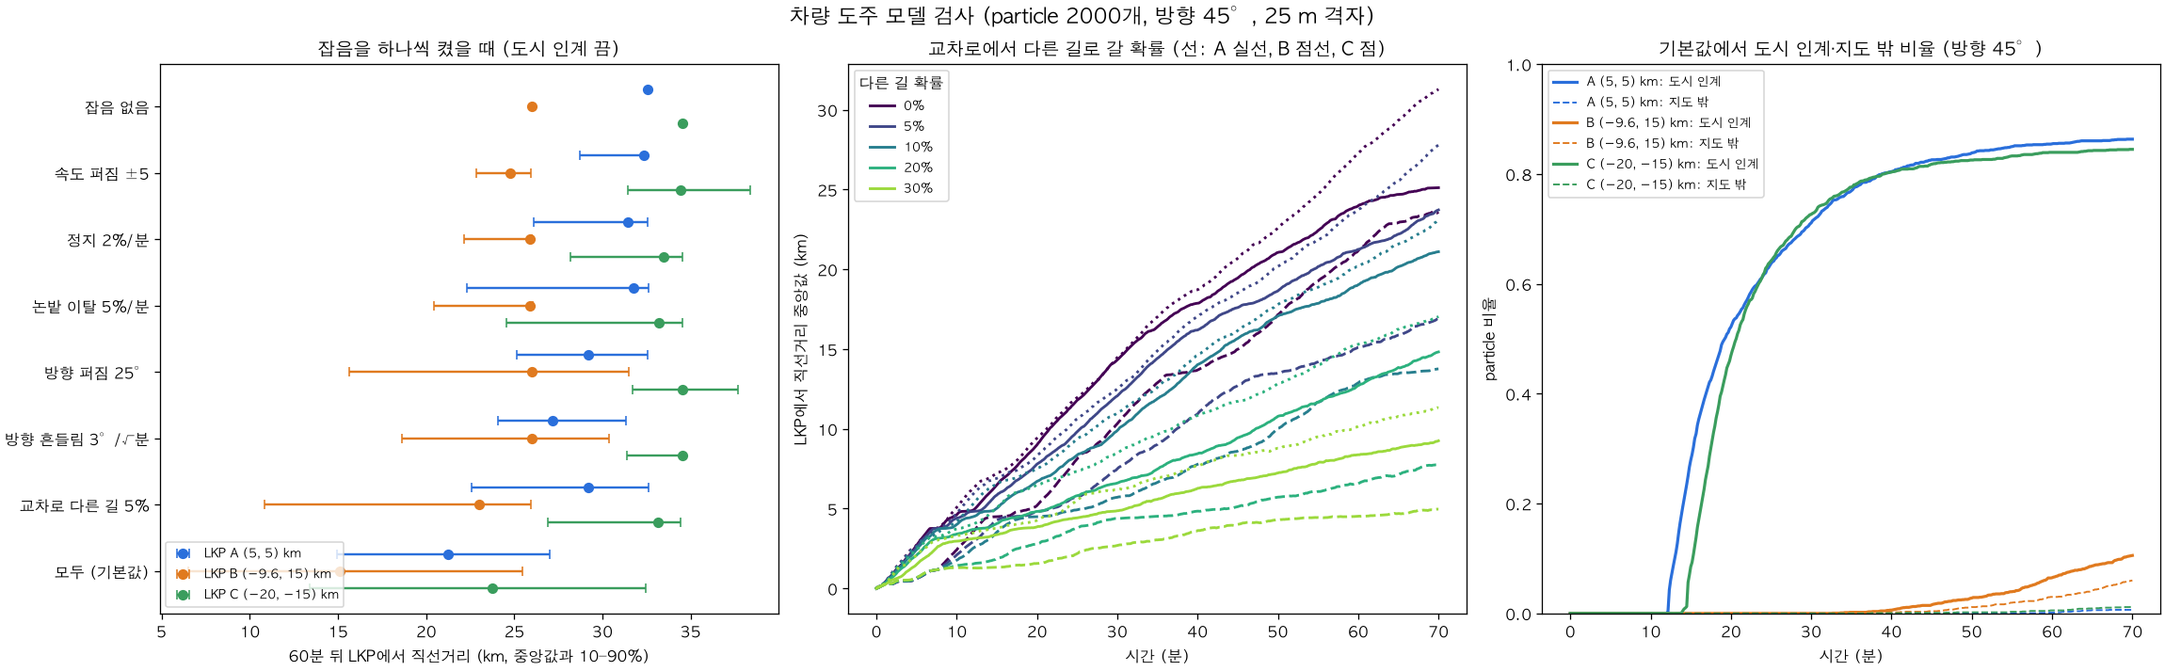
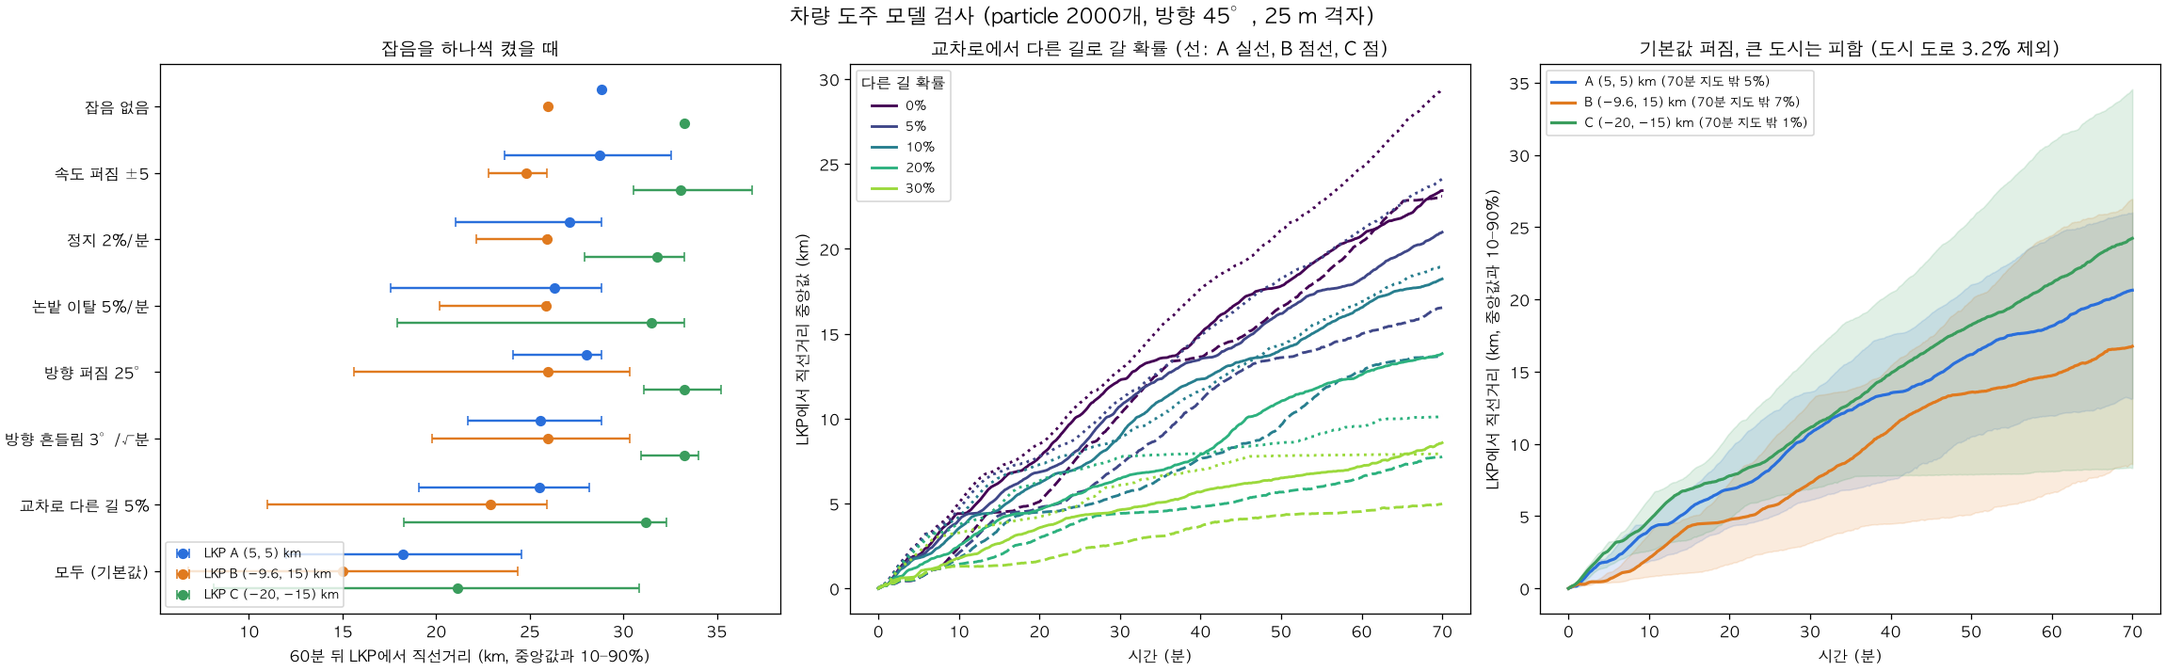
Vehicle evaders avoid large cities: city roads removed from the graph, hand-off state dropped; checks and handoff updated

diff --git a/rl_search/vehicle.py b/rl_search/vehicle.py
@@ -5,6 +5,10 @@ Agreed with the user (2026-11-06, docs/real_map_todo.md):
 - On roads the particle drives along the road graph (fast / slow tier). It may leave the road with the
   car into open land (fields, grass, villages), where it drives slowly on the 25 m grid and is blocked
   by forest, water, steep ground and the city zones. Near a road it may return to it.
+- Large cities are avoided (user decision 2026-11-06, option b): roads that pass through a city zone are
+  removed from the graph, so routes go around the cities where a bypass exists, and off-road driving
+  cannot enter them. (The first version handed particles off when they reached a city; with a 45 deg
+  heading 84 % were gone after 60 min because the fastest routes ran through Chungju and Jecheon.)
 - All rates are per minute and converted to the step length: p_step = 1 - (1 - p_min)^(dt/60).
 - Junctions: each particle heads for the map edge in its escape direction (a goal sector of
   ``goal_sector_deg``) and picks the next road by the travel time to that goal, like a navigation
@@ -12,11 +16,9 @@ Agreed with the user (2026-11-06, docs/real_map_todo.md):
   heading drifts slowly, so the goal can change on the way. Choosing by the local road direction alone
   made particles circle in the mountain valleys (60 min: median 4 km from the LKP), and a softmax on the
   extra travel time (60 s temperature) did the same because junctions are only ~270 m apart.
-- Large-city zones are hand-off areas: a particle that reaches one stops there and its time is recorded,
-  like a particle that leaves the map.
 
 States (stored every ``save_dt_s``): FAST, SLOW (on the graph), OFF (off-road), STOP (stopped, on or
-off the road), CITY (handed off), EXIT (left the map).
+off the road), EXIT (left the map; frozen at the first outside position, like the walking model).
 """
 from __future__ import annotations
 
@@ -30,8 +32,8 @@ from scipy.ndimage import distance_transform_edt
 
 from rl_search.terrain import Terrain
 
-FAST, SLOW, OFF, STOP, CITY, EXIT = range(6)
-STATE_NAMES = ("빠른 길", "느린 길", "논밭", "정지", "도시 인계", "지도 밖")
+FAST, SLOW, OFF, STOP, EXIT = range(5)
+STATE_NAMES = ("빠른 길", "느린 길", "논밭", "정지", "지도 밖")
 KMH = 1/3.6
 
 
@@ -67,7 +69,6 @@ class VehicleConfig:
     respect_oneway: bool = True
     w_off_heading: float = 1.0         # off-road: pull towards the escape heading
     w_off_keep: float = 2.0            # off-road: keep the current driving direction
-    city_handoff: bool = True
 
     @property
     def save_every(self) -> int:
@@ -127,24 +128,10 @@ class RoadNet:
         self.de_dir = np.empty((2*ne, 2))
         self.de_dir[0::2] = dfw/np.maximum(np.hypot(*dfw.T), 1e-6)[:, None]
         self.de_dir[1::2] = dbw/np.maximum(np.hypot(*dbw.T), 1e-6)[:, None]
-        # keep only the largest connected road network: dropping village streets left ~670 pieces, the
-        # largest holds 93 % of the length (99 % of the fast roads); particles never enter the others
-        from scipy.sparse import csr_matrix
-        from scipy.sparse.csgraph import connected_components
-        nn = len(self.node_xy)
-        g = csr_matrix((np.ones(ne), (e["u"], e["v"])), shape=(nn, nn))
-        _, lab = connected_components(g, directed=False)
-        km = np.bincount(lab[e["u"]], weights=self.edge_len, minlength=lab.max() + 1)
-        self.edge_main = lab[e["u"]] == np.argmax(km)
-        self.main_share = float(self.edge_len[self.edge_main].sum()/self.edge_len.sum())
-        self.de_main = np.repeat(self.edge_main, 2)
-        self.set_oneway(True)
-        self._goal_cache = {}
-
-        # snapping grid: road cells hold an edge id and the distance along it
+        # points every half cell along every edge: city test and snapping grid
         n, cell, lo = len(terr.axis), terr.cell, terr.axis[0]
-        pts_e, pts_s, pts_xy = [], [], []
-        for k in np.flatnonzero(self.edge_main):
+        pts_e, pts_s = [], []
+        for k in range(ne):
             L = self.edge_len[k]
             s = np.linspace(0, L, max(2, int(L/(cell/2)) + 1))
             pts_e.append(np.full(len(s), k)); pts_s.append(s)
@@ -152,6 +139,28 @@ class RoadNet:
         xy = self._point_at(pe, ps)
         r = np.rint((xy[:, 1] - lo)/cell).astype(int); c = np.rint((xy[:, 0] - lo)/cell).astype(int)
         ok = (r >= 0) & (r < n) & (c >= 0) & (c < n)
+        in_city = np.zeros(len(pe), bool)
+        in_city[ok] = terr.city[r[ok], c[ok]]
+        self.edge_city = np.bincount(pe[in_city], minlength=ne) > 0
+        # keep only the largest connected road network without the city roads: dropping village streets
+        # left ~670 pieces (the largest holds 93 % of the length, 99 % of the fast roads); particles never
+        # enter the others
+        from scipy.sparse import csr_matrix
+        from scipy.sparse.csgraph import connected_components
+        nn = len(self.node_xy)
+        keep = ~self.edge_city
+        g = csr_matrix((np.ones(keep.sum()), (e["u"][keep], e["v"][keep])), shape=(nn, nn))
+        _, lab = connected_components(g, directed=False)
+        km = np.bincount(lab[e["u"][keep]], weights=self.edge_len[keep], minlength=lab.max() + 1)
+        self.edge_main = keep & (lab[e["u"]] == np.argmax(km))
+        self.main_share = float(self.edge_len[self.edge_main].sum()/self.edge_len.sum())
+        self.city_share = float(self.edge_len[self.edge_city].sum()/self.edge_len.sum())
+        self.de_main = np.repeat(self.edge_main, 2)
+        self.set_oneway(True)
+        self._goal_cache = {}
+
+        # snapping grid: road cells hold an edge id and the distance along it
+        ok &= self.edge_main[pe]
         self.cell_edge = np.full((n, n), -1, np.int32)
         self.cell_s = np.zeros((n, n), np.float32)
         self.cell_edge[r[ok], c[ok]] = pe[ok]
@@ -281,7 +290,7 @@ def simulate_vehicle(net: RoadNet, cfg: VehicleConfig, lkp, heading_deg: float, 
     """Particle tracks of a vehicle evader from the LKP (snapped to the nearest road).
 
     Returns a namespace with ``track`` (T, N, 2) float32, ``state`` (T, N) uint8, ``speed_kmh`` (T, N)
-    float16, ``exit_step`` and ``city_step`` (N,) int16 (first stored index, -1 = never) and ``lkp_road``.
+    float16, ``exit_step`` (N,) int16 (first stored index outside the map, -1 = never) and ``lkp_road``.
     """
     if net.respect != cfg.respect_oneway:
         net.set_oneway(cfg.respect_oneway)
@@ -296,7 +305,7 @@ def simulate_vehicle(net: RoadNet, cfg: VehicleConfig, lkp, heading_deg: float, 
     lkp_road = pos[0].copy()
     mode = np.where(net.edge_tier[de >> 1] == 2, FAST, SLOW).astype(np.uint8)   # FAST / SLOW / OFF
     stopped = np.zeros(n, bool)
-    done = np.zeros(n, np.uint8)                                                 # 0, CITY, EXIT
+    done = np.zeros(n, np.uint8)                                                 # 0 or EXIT
     psi = np.arctan2(*net.direction(de, s)[:, ::-1].T)                           # off-road driving direction
 
     p_leave = {FAST: cfg.p_step(cfg.p_leave_fast_min), SLOW: cfg.p_step(cfg.p_leave_slow_min)}
@@ -315,7 +324,6 @@ def simulate_vehicle(net: RoadNet, cfg: VehicleConfig, lkp, heading_deg: float, 
     state = np.empty((T, n), np.uint8)
     speed_rec = np.zeros((T, n), np.float16)
     exit_step = np.full(n, -1, np.int16)
-    city_step = np.full(n, -1, np.int16)
 
     def record(k, v):
         track[k] = pos
@@ -374,15 +382,6 @@ def simulate_vehicle(net: RoadNet, cfg: VehicleConfig, lkp, heading_deg: float, 
                 a = np.flatnonzero(arr)
                 left = cur_s[a] - L[a]
                 node = net.de_to[cur_de[a]]
-                if cfg.city_handoff:
-                    cty = net.node_city[node]
-                    if cty.any():
-                        g = i[a[cty]]
-                        done[g] = CITY
-                        cur_s[a[cty]] = np.maximum(L[a[cty]] - 1e-3, 0)
-                        a, left, node = a[~cty], left[~cty], node[~cty]
-                if not len(a):
-                    continue
                 cand = net.out[node]                                       # (k, max_deg)
                 twin = cur_de[a] ^ 1
                 valid = (cand >= 0) & (cand != twin[:, None])
@@ -448,20 +447,16 @@ def simulate_vehicle(net: RoadNet, cfg: VehicleConfig, lkp, heading_deg: float, 
                 newp[stuck] = pos[i[stuck]]
                 psi[i] = np.where(stuck, psi[i] + np.pi + rng.normal(0, .5, len(i)), ang[sel, k])
                 pos[i] = newp
-                if cfg.city_handoff:
-                    r2, c2 = net.cell_of(pos[i])
-                    done[i[terr.city[r2, c2]]] = CITY
 
         # ---------------- bookkeeping
         out = (done == 0) & ~terr.inside(pos[:, 0], pos[:, 1])
         done[out] = EXIT
         k = -(-(t + 1)//every)
         exit_step[out & (exit_step < 0)] = k
-        city_step[(done == CITY) & (city_step < 0)] = k
         if (t + 1) % every == 0:
             record((t + 1)//every, v)
     return SimpleNamespace(track=track, state=state, speed_kmh=speed_rec, exit_step=exit_step,
-                           city_step=city_step, lkp_road=lkp_road, cfg=cfg, heading_deg=heading_deg)
+                           lkp_road=lkp_road, cfg=cfg, heading_deg=heading_deg)
 
 
 def load_net(region: str = "chungju", cell_m: float = 25.0):

diff --git a/rl_search/scripts/real_map/vehicle_tuner.py b/rl_search/scripts/real_map/vehicle_tuner.py
@@ -27,14 +27,14 @@ from matplotlib.colors import LightSource
 from matplotlib.lines import Line2D
 from matplotlib.widgets import Button, CheckButtons, RadioButtons, Slider
 
-from rl_search.vehicle import (CITY, EXIT, FAST, OFF, SLOW, STATE_NAMES, STOP, VehicleConfig, load_net,
+from rl_search.vehicle import (EXIT, FAST, OFF, SLOW, STATE_NAMES, STOP, VehicleConfig, load_net,
                                simulate_vehicle)
 
 plt.rcParams["font.family"] = ["AppleGothic", "sans-serif"]
 plt.rcParams["axes.unicode_minus"] = False
 
 PARAMS = Path("rl_search/data/real/vehicle_params.json")
-STATE_COLORS = {FAST: "#111111", SLOW: "#c0702f", OFF: "#2a9d8f", STOP: "#7b2cbf", CITY: "#d1495b", EXIT: "#888888"}
+STATE_COLORS = {FAST: "#111111", SLOW: "#c0702f", OFF: "#2a9d8f", STOP: "#7b2cbf", EXIT: "#888888"}
 DEFAULT_LKP = (5000.0, 5000.0)
 DEFAULT_HEADING = 45.0
 
@@ -78,10 +78,14 @@ def background(ax, net):
     rgb *= (.75 + .25*hs)[..., None]
     h = t.cell/2000
     ax.imshow(rgb, origin="lower", extent=(a[0] - h, a[-1] + h, a[0] - h, a[-1] + h), interpolation="nearest")
-    segs_f, segs_s = [], []
+    segs_f, segs_s, segs_x = [], [], []
     for k in range(len(net.edge_len)):
         xy = net.poly[net.off[k]:net.off[k + 1]]/1000
-        (segs_f if net.edge_tier[k] == 2 else segs_s).append(xy)
+        if not net.edge_main[k]:
+            segs_x.append(xy)                                 # city roads and cut-off pieces: not driven
+        else:
+            (segs_f if net.edge_tier[k] == 2 else segs_s).append(xy)
+    ax.add_collection(LineCollection(segs_x, colors="#9a9a9a", linewidths=.3, alpha=.5, linestyles=":"))
     ax.add_collection(LineCollection(segs_s, colors="#b9905f", linewidths=.35, alpha=.7))
     ax.add_collection(LineCollection(segs_f, colors="#555555", linewidths=.6, alpha=.8))
     ax.set_xlim(a[0], a[-1]); ax.set_ylim(a[0], a[-1]); ax.set_aspect("equal")
@@ -90,9 +94,9 @@ def background(ax, net):
 
 def summarize(res):
     st = res.state
-    shares = np.stack([(st == s).mean(axis=1) for s in range(6)], axis=1)
+    shares = np.stack([(st == s).mean(axis=1) for s in range(len(STATE_NAMES))], axis=1)
     d = np.hypot(*(res.track - res.lkp_road).transpose(2, 0, 1))/1000
-    live = (st != CITY) & (st != EXIT)
+    live = st != EXIT
     pct = np.full((len(st), 3), np.nan)
     for k in range(len(st)):
         if live[k].any():
@@ -117,14 +121,14 @@ def snapshot(net, cfg, view, out: Path):
         ax.plot(*(res.lkp_road/1000), marker="*", ms=14, mfc="yellow", mec="black", zorder=6)
         ax.set_title(f"{tm}분 뒤", fontsize=12)
     ax = fig.add_subplot(gs[1, :2])
-    ax.stackplot(tmin, shares.T, colors=[STATE_COLORS[s] for s in range(6)], labels=STATE_NAMES, alpha=.85)
+    ax.stackplot(tmin, shares.T, colors=[STATE_COLORS[s] for s in range(len(STATE_NAMES))], labels=STATE_NAMES, alpha=.85)
     ax.set_xlim(0, tmin[-1]); ax.set_ylim(0, 1); ax.set_xlabel("시간 (분)"); ax.set_ylabel("particle 비율")
     ax.set_title("상태별 비율"); ax.legend(loc="upper left", bbox_to_anchor=(1.0, 1), fontsize=9)
     ax = fig.add_subplot(gs[1, 2:])
     ax.fill_between(tmin, pct[:, 0], pct[:, 2], color="#4a6fa5", alpha=.25, label="10–90%")
     ax.plot(tmin, pct[:, 1], color="#4a6fa5", lw=2, label="중앙값")
     ax.set_xlim(0, tmin[-1]); ax.set_xlabel("시간 (분)"); ax.set_ylabel("LKP에서 직선거리 (km)")
-    ax.set_title("LKP에서 거리 (도시 인계·지도 밖 제외)"); ax.legend()
+    ax.set_title("LKP에서 거리 (지도 밖 제외)"); ax.legend()
     fig.suptitle(f"차량 도주 particle {cfg.particles}개, LKP ({view['lkp'][0]/1000:.1f}, {view['lkp'][1]/1000:.1f}) km, "
                  f"방향 {view['heading']:.0f}°, 기본 설정", fontsize=14)
     fig.savefig(out, dpi=110)
@@ -145,7 +149,7 @@ class Tuner:
         self.lkp_mark, = self.ax_map.plot([], [], marker="*", ms=15, mfc="yellow", mec="black", zorder=6)
         self.arrow = None
         self.ax_map.legend(handles=[Line2D([], [], marker="o", ls="", color=STATE_COLORS[s], label=STATE_NAMES[s])
-                                    for s in range(6)], loc="upper left", fontsize=8, framealpha=.9)
+                                    for s in range(len(STATE_NAMES))], loc="upper left", fontsize=8, framealpha=.9)
         self.fig.canvas.mpl_connect("button_press_event", self.on_click)
 
         ax_t = self.fig.add_axes([0.06, 0.255, 0.45, 0.025])
@@ -163,8 +167,8 @@ class Tuner:
                 s = Slider(ax, label, lo, hi, valinit=float(np.clip(val, lo, hi)), valstep=step)
                 s.on_changed(lambda _, n=name: self.on_param(n))
                 self.sliders[name], self.slider_axes[name] = s, (g, ax)
-        self.checks = CheckButtons(self.fig.add_axes([0.89, 0.06, 0.10, 0.12]), ["자동 실행", "일방통행 지킴", "도시 인계"],
-                                   [True, cfg.respect_oneway, cfg.city_handoff])
+        self.checks = CheckButtons(self.fig.add_axes([0.89, 0.06, 0.10, 0.12]), ["자동 실행", "일방통행 지킴"],
+                                   [True, cfg.respect_oneway])
         self.checks.on_clicked(self.on_check)
         self.b_run = Button(self.fig.add_axes([0.92, 0.20, 0.07, 0.04]), "실행")
         self.b_run.on_clicked(lambda _: self.run())
@@ -203,7 +207,7 @@ class Tuner:
             else:
                 kw[name] = float(v)
         on = self.checks.get_status()
-        kw["respect_oneway"], kw["city_handoff"] = on[1], on[2]
+        kw["respect_oneway"] = on[1]
         self.cfg = replace(self.cfg, **kw)
 
     def on_param(self, name):
@@ -239,7 +243,7 @@ class Tuner:
                                           arrowprops=dict(arrowstyle="->", lw=2, color="black"), zorder=6)
         ax = self.ax_share
         ax.clear()
-        ax.stackplot(self.tmin, self.shares.T, colors=[STATE_COLORS[s] for s in range(6)], alpha=.85)
+        ax.stackplot(self.tmin, self.shares.T, colors=[STATE_COLORS[s] for s in range(len(STATE_NAMES))], alpha=.85)
         ax.set_xlim(0, self.tmin[-1]); ax.set_ylim(0, 1); ax.set_title("상태별 비율", fontsize=10)
         self.vl_share = ax.axvline(0, color="red", lw=1)
         ax = self.ax_dist
@@ -267,7 +271,7 @@ class Tuner:
             if m.any():
                 ax.hist(self.res.speed_kmh[k, m].astype(float), bins=bins, color=STATE_COLORS[s_], alpha=.7)
         ax.set_title(f"{tm:.1f}분 속도 분포 (km/h): " + ", ".join(
-            f"{STATE_NAMES[s]} {(st == s).mean():.0%}" for s in range(6)), fontsize=9)
+            f"{STATE_NAMES[s]} {(st == s).mean():.0%}" for s in range(len(STATE_NAMES))), fontsize=9)
         ax.set_yticks([])
         self.fig.canvas.draw_idle()
 

diff --git a/rl_search/scripts/real_map/vehicle_check.py b/rl_search/scripts/real_map/vehicle_check.py
@@ -1,5 +1,5 @@
 """Checks of the vehicle evader model: which noise source slows the spread, the junction detour sweep,
-and the effect of the city hand-off. Figures go to rl_search/data/real/chungju/.
+and the spread with the default settings (cities avoided). Figures go to rl_search/data/real/chungju/.
 
 Run from the repository root:
     python -m rl_search.scripts.real_map.vehicle_check
@@ -14,7 +14,7 @@ matplotlib.use("Agg")
 import matplotlib.pyplot as plt
 
 from rl_search.real_terrain import DATA
-from rl_search.vehicle import CITY, EXIT, VehicleConfig, load_net, simulate_vehicle
+from rl_search.vehicle import EXIT, VehicleConfig, load_net, simulate_vehicle
 
 plt.rcParams["font.family"] = ["AppleGothic", "sans-serif"]
 plt.rcParams["axes.unicode_minus"] = False
@@ -33,7 +33,7 @@ def main():
     net = load_net()
     base = VehicleConfig(particles=N)
     quiet = replace(base, p_leave_fast_min=0, p_leave_slow_min=0, p_stop_min=0, heading_std_deg=0,
-                    reorient_std_deg_min=0, p_detour=0, fast_std_kmh=0, slow_std_kmh=0, city_handoff=False)
+                    reorient_std_deg_min=0, p_detour=0, fast_std_kmh=0, slow_std_kmh=0)
     tests = [("잡음 없음", {}), ("속도 퍼짐 ±5", dict(fast_std_kmh=5, slow_std_kmh=5)), ("정지 2%/분", dict(p_stop_min=.02)),
              ("논밭 이탈 5%/분", dict(p_leave_fast_min=.05, p_leave_slow_min=.05)), ("방향 퍼짐 25°", dict(heading_std_deg=25)),
              ("방향 흔들림 3°/√분", dict(reorient_std_deg_min=3)), ("교차로 다른 길 5%", dict(p_detour=.05)),
@@ -49,13 +49,15 @@ def main():
     curves = {}
     for p in sweep_p:
         for name, lkp in LKPS.items():
-            r = simulate_vehicle(net, replace(base, p_detour=p, city_handoff=False), lkp, HEADING, np.random.default_rng(0))
+            r = simulate_vehicle(net, replace(base, p_detour=p), lkp, HEADING, np.random.default_rng(0))
             curves[(p, name)] = np.median(dist_km(r), axis=1)
     tmin = np.arange(base.n_steps//base.save_every + 1)*base.save_dt_s/60
-    city = {}
+    spread = {}
     for name, lkp in LKPS.items():
         r = simulate_vehicle(net, base, lkp, HEADING, np.random.default_rng(0))
-        city[name] = ((r.state == CITY).mean(axis=1), (r.state == EXIT).mean(axis=1))
+        d = dist_km(r)
+        d[r.state == EXIT] = np.nan
+        spread[name] = (np.nanpercentile(d, [10, 50, 90], axis=1), (r.state == EXIT).mean(axis=1))
 
     fig, axs = plt.subplots(1, 3, figsize=(20, 6.2), layout="constrained")
     ax = axs[0]
@@ -67,7 +69,7 @@ def main():
                     color=c, ms=6, capsize=3, label=f"LKP {name}")
     ax.set_yticks(y, [t for t, _ in tests]); ax.invert_yaxis()
     ax.set_xlabel("60분 뒤 LKP에서 직선거리 (km, 중앙값과 10–90%)")
-    ax.set_title("잡음을 하나씩 켰을 때 (도시 인계 끔)"); ax.legend(fontsize=8, loc="lower left")
+    ax.set_title("잡음을 하나씩 켰을 때"); ax.legend(fontsize=8, loc="lower left")
     ax = axs[1]
     shades = plt.get_cmap("viridis")(np.linspace(0, .85, len(sweep_p)))
     for p, c in zip(sweep_p, shades):
@@ -77,11 +79,11 @@ def main():
     ax.set_title("교차로에서 다른 길로 갈 확률 (선: A 실선, B 점선, C 점)")
     ax.legend(title="다른 길 확률", fontsize=8)
     ax = axs[2]
-    for (name, (cs, ex)), c in zip(city.items(), cols):
-        ax.plot(tmin, cs, color=c, lw=2, label=f"{name}: 도시 인계")
-        ax.plot(tmin, ex, color=c, lw=1.2, ls="--", label=f"{name}: 지도 밖")
-    ax.set_ylim(0, 1); ax.set_xlabel("시간 (분)"); ax.set_ylabel("particle 비율")
-    ax.set_title("기본값에서 도시 인계·지도 밖 비율 (방향 45°)"); ax.legend(fontsize=8)
+    for (name, (q, ex)), c in zip(spread.items(), cols):
+        ax.fill_between(tmin, q[0], q[2], color=c, alpha=.15)
+        ax.plot(tmin, q[1], color=c, lw=2, label=f"{name} (70분 지도 밖 {ex[-1]:.0%})")
+    ax.set_xlabel("시간 (분)"); ax.set_ylabel("LKP에서 직선거리 (km, 중앙값과 10–90%)")
+    ax.set_title(f"기본값 퍼짐, 큰 도시는 피함 (도시 도로 {net.city_share:.1%} 제외)"); ax.legend(fontsize=8)
     fig.suptitle(f"차량 도주 모델 검사 (particle {N}개, 방향 {HEADING:.0f}°, 25 m 격자)", fontsize=14)
     fig.savefig(out/"vehicle_check.png", dpi=115)
     plt.close(fig)
@@ -91,8 +93,10 @@ def main():
     for (nm, _), row in zip(tests, abl):
         print(f"| {nm} | " + " | ".join(f"{a:.1f} / {b:.1f} / {c:.1f}" for a, b, c in row) + " |")
     k30 = int(30*60/base.save_dt_s)
-    for name, (cs, ex) in city.items():
-        print(f"{name}: 30분 도시 {cs[k30]:.2f}, 60분 도시 {cs[k60]:.2f}, 70분 지도 밖 {ex[-1]:.2f}")
+    print(f"main network {net.main_share:.3f} of road length, city roads {net.city_share:.3f}")
+    for name, (q, ex) in spread.items():
+        print(f"{name}: 30분 p10/50/90 {q[0, k30]:.1f}/{q[1, k30]:.1f}/{q[2, k30]:.1f} km, "
+              f"60분 {q[0, k60]:.1f}/{q[1, k60]:.1f}/{q[2, k60]:.1f} km, 70분 지도 밖 {ex[-1]:.2f}")
     for p in sweep_p:
         print(f"다른 길 {p:.0%}: " + ", ".join(f"{n} 60분 {curves[(p, n)][k60]:.1f} km" for n in LKPS))
 

diff --git a/docs/real_map_todo.md b/docs/real_map_todo.md
@@ -3,10 +3,40 @@
 SAROPS 방식 탐색([SAROPS 방식 적용 검토 TODO](sarops_approach_todo.md))을 실제 지형 위로 옮기는 작업을 관리한다.
 날짜는 한국 시간.
 
-## 2026-11-06 · 차량 도주 모델 1차 구현과 조절 뷰어 (최신 인계)
+## 2026-11-06 · 큰 도시는 피해 간다 (최신 인계)
+
+**현재 위치:** 사용자가 도시 처리 방식으로 (b) "도주자는 도시를 피해 간다"를 골랐다. 이를 구현하고 다시 검사했다.
+다음 할 일은 기본값을 뷰어로 보면서 확정하는 것과, 목적지 방식(아래 미결 질문)을 정하는 것이다.
+
+**바꾼 점** (`rl_search/vehicle.py`)
+- **큰 도시 구역을 지나는 도로를 그래프에서 뺐다.** 전체 도로 길이의 3.2%다.
+  - 경로 계산과 교차로 선택 모두 그 길을 쓰지 않는다. 도시를 돌아가는 길이 있으면 그리로 간다.
+  - 도로 밖 주행도 원래부터 도시에 들어가지 못한다.
+- **도시 인계 상태(`CITY`)와 `city_handoff` 옵션은 없앴다.** 상태는 빠른 길, 느린 길, 논밭, 정지, 지도 밖 다섯 가지다.
+- **쓰는 도로망이 길이 기준 92.6%에서 89.0%로 줄었다.** 도시 도로를 빼면서 떨어져 나간 작은 조각까지 함께 빠졌다.
+
+**결과** (방향 45°, particle 2,000개, 기본값; `vehicle_check.png`, `vehicle_default.png`)
+
+| LKP | 30분 p10 / 50 / 90 (km) | 60분 p10 / 50 / 90 (km) | 70분 지도 밖 |
+|---|---|---|---|
+| A (5, 5) | 6.1 / 10.7 / 13.6 | 12.0 / 18.1 / 24.3 | 5% |
+| B (−9.6, 15) | 3.2 / 7.3 / 12.9 | 6.6 / 14.7 / 24.4 | 7% |
+| C (−20, −15) | 6.9 / 11.1 / 16.2 | 8.1 / 21.1 / 30.9 | 1% |
+
+- A에서는 particle이 제천 시내를 피해 북서쪽과 동쪽으로 돌아간다(`vehicle_default.png`). 예전에는 60분에 84~85%가 도시 인계로 사라졌다.
+- 잡음 없는 경로의 60분 거리는 A 32.5 km에서 28.8 km, C 34.6 km에서 33.2 km로 줄었다. 돌아가는 길이 생긴 만큼이다.
+
+**미결 질문** (사용자 의견: 목적지 방식은 고민이 필요하다)
+- **목적지 방식.** 지금은 "도주 방향의 지도 가장자리까지 가장 빠른 길"이다(방향 + 지역을 아는 운전자). 대안은 셋이다.
+  - (a) 목적지 없이 LKP에서 멀어지는 쪽을 고른다.
+  - (c) 실제 장소(IC, 다른 도시 근처, 지도 밖으로 나가는 주요 도로)를 목적지로 삼는다.
+  - 셋을 particle마다 섞는다.
+- **막다른 길.** "다른 길" 선택 후보에서 막다른 가지를 뺄지. 숨으려고 막다른 농로에 들어가는 행동을 따로 작은 확률로 둘지.
+
+## 2026-11-06 · 차량 도주 모델 1차 구현과 조절 뷰어
 
 **현재 위치:** 차량 particle 모델(`rl_search/vehicle.py`)과 슬라이더 뷰어를 만들었다. 기본값으로 퍼짐을 검사했다.
-사용자에게 결과를 보여주고 도시 처리 방식을 묻는 중이다. 설계 결정은 아래 절 그대로이고, 구현하면서 바꾼 점은 아래와 같다.
+결과를 보여주고 도시 처리 방식을 물었다(답: 위 절, 도시를 피함). 설계 결정은 아래 절 그대로이고, 구현하면서 바꾼 점은 아래와 같다.
 
 **실행**
 - 뷰어: `python -m rl_search.scripts.real_map.vehicle_tuner`
